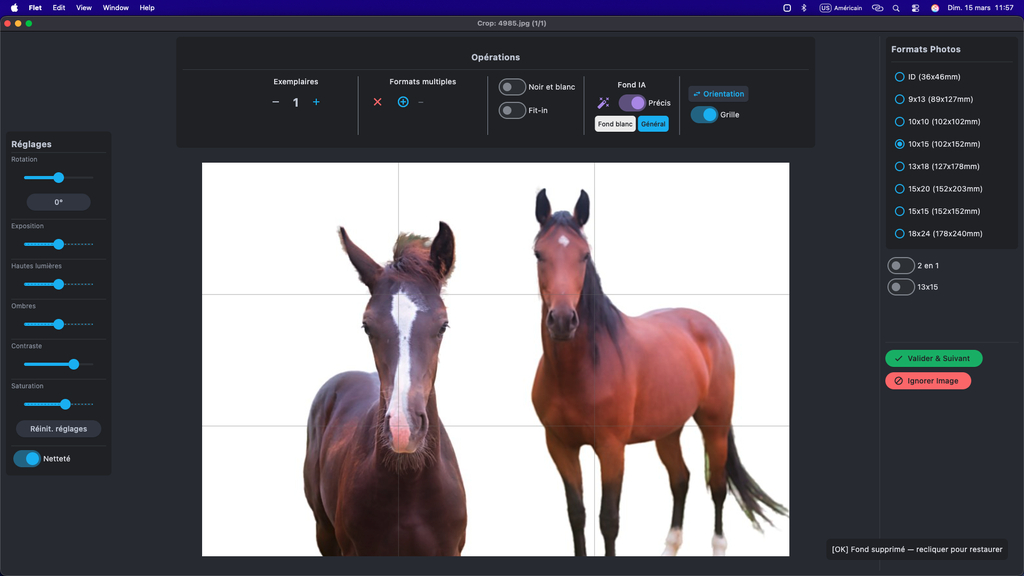
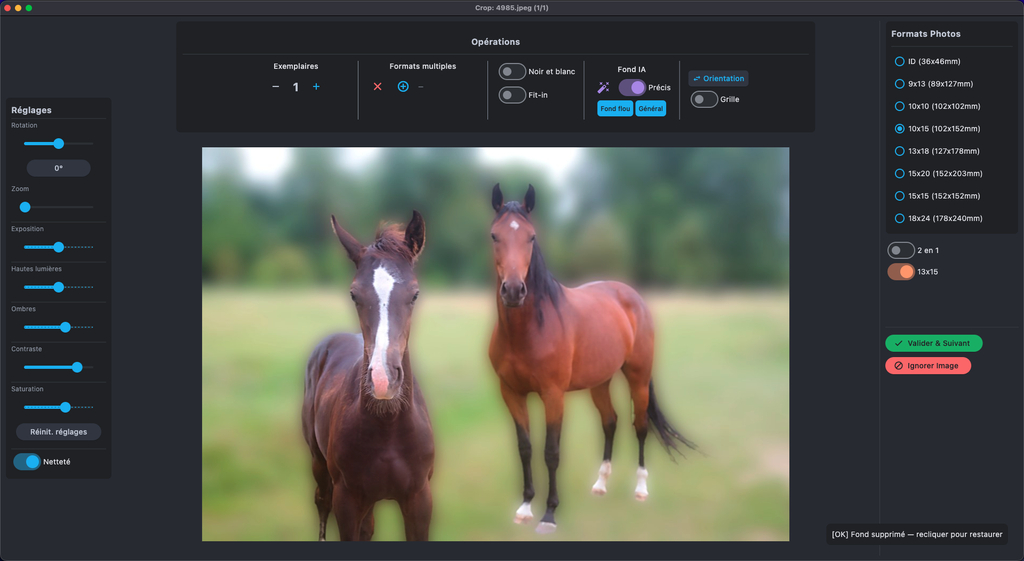
Update screenshots

diff --git a/README.md b/README.md
@@ -167,7 +167,7 @@ Dashboard-Image-Manipulation/
 
 | Nom affiché (Dashboard) | Script | Description |
 |-------------------------|--------|-------------|
-| Augmentation IA | `Augmentation IA.py` | Super-résolution, effacer des éléments dans une image et restauration de visage par IA |
+| Augmentation IA | `Augmentation IA.py` | Super-résolution, effacer des éléments dans une image (inpainting) et restauration de visage par IA |
 | Nettoyer les métadonnées | `Nettoyer metadonnees.py` | Supprime les métadonnées EXIF |
 | Conversion en JPG | `Conversion JPG.py` | Convertit les images (et les fichiers PDF !) en JPG |
 | Fichiers manquants | `Fichiers manquants.py` | Détecte les fichiers manquants |
@@ -175,7 +175,7 @@ Dashboard-Image-Manipulation/
 | Format 13x15 | `Format 13x15.py` | Recadre en format 13x15 cm |
 | Images en PDF | `Images en PDF.py` | Génère un PDF à partir d'images |
 | Noir et blanc | `N&B.py` | Conversion noir et blanc |
-| Recadrage | `Recadrage.pyw` | Recadrage interactif avec 16 formats d'impression (ID, 10x15, 13x18, 20x30…), mode batch, zoom/pan/rotation, 2 en 1, planches ID x2/x4, formats multiples par image, exemplaires, noir et blanc, netteté, **grille des tiers** (overlay activable), **suppression de fond par IA** (rembg : fond blanc/gris, modèle humain/généraliste, mode précis) |
+| Recadrage | `Recadrage.pyw` | Recadrage interactif avec 16 formats d'impression (ID, 10x15, 13x18, 20x30…), mode batch, zoom/pan/rotation, 2 en 1, planches ID x2/x4, formats multiples par image, exemplaires, noir et blanc, netteté, **grille des tiers** (overlay activable), **suppression de fond par IA** (rembg : fond blanc/flouté, modèle humain/généraliste, mode précis) |
 | Remerciements | `Remerciements.py` | Génère des cartes de remerciement |
 | Redimensionner | `Redimensionner.py` | Redimensionne les images (taille paramétrable) |
 | Redimensionner + filigrane | `Redimensionner filigrane.py` | Redimensionne avec filigrane (taille paramétrable) |
